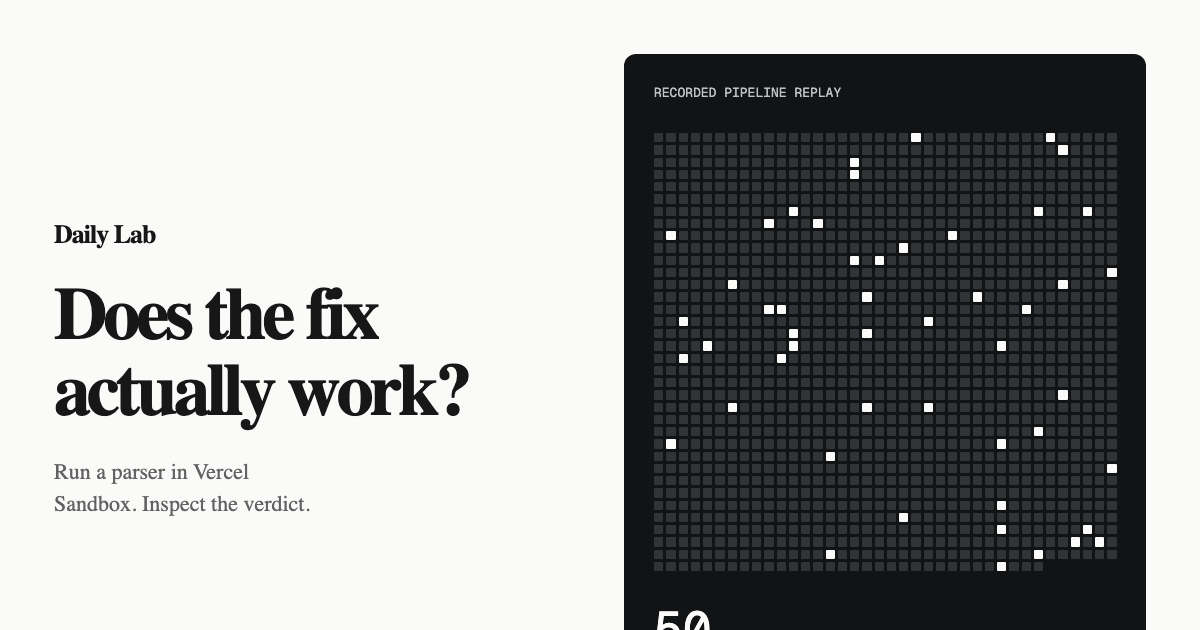
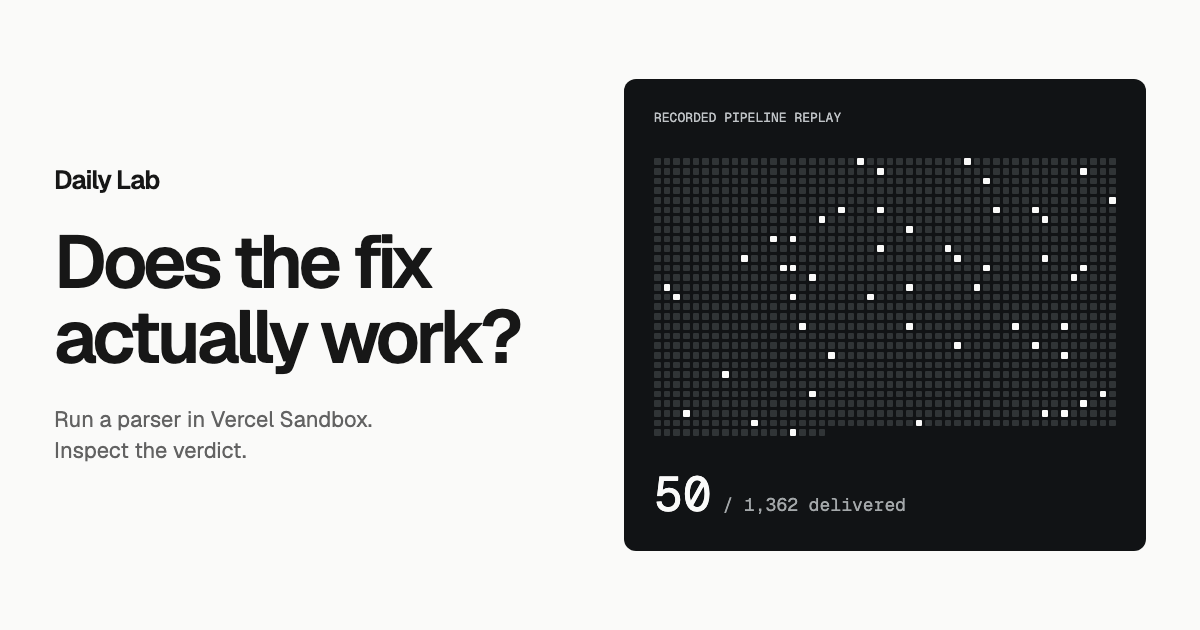
fix: polish responsive layouts and interruptible playback

Changed region(s): [[0.4933, 0.0603, 0.9558, 1.0], [0.0308, 0.3619, 0.4317, 0.8143], [0.0308, 0.2714, 0.1542, 0.3016]]

diff --git a/web/app/evidence/page.tsx b/web/app/evidence/page.tsx
@@ -28,9 +28,9 @@ import { personaLabel, personaName } from '@/lib/personas'
 import { explorerHref, readState, type RawSearchParams } from '@/lib/url-state'
 
 export const metadata: Metadata = {
-  title: 'Evaluation evidence',
+  title: 'Evidence · Daily Lab',
   description:
-    'Interactive results from Daily’s offline evaluation harness: per-fixture metrics, the candidate funnel drawn at 1:1 with the corpus, and the recorded trace for individual stories.',
+    'Interactive results from the Daily Lab evaluation harness: per-fixture metrics, the candidate funnel drawn at 1:1 with the corpus, and the recorded trace for individual stories.',
 }
 
 export default async function EvidencePage({
@@ -79,6 +79,17 @@ export default async function EvidencePage({
     else comparisonFailed = load.error.issues.join('; ')
   }
 
+  // Count each snapshot's label set once, even when multiple pipelines used it.
+  const snapshots = index.manifest?.snapshots ?? []
+  const labelSets = await Promise.all(snapshots.map(async (snapshot) => {
+    const entry = index.entries.find(e => e.snapshot === snapshot.name && !e.is_baseline)
+    if (!entry) return null
+    const loaded = await loadArtifact(entry)
+    return loaded.ok ? loaded.artifact.provenance.labels : null
+  }))
+  const labelRows = labelSets.length > 0 && labelSets.every(labels => labels !== null)
+    ? labelSets.reduce((total, labels) => total + (labels?.rows ?? 0), 0) : null
+
   const state = { ...requested, run: primaryEntry.run_id, compare: comparisonEntry?.run_id }
 
   const compatibility = comparison === null ? null : assessCompatibility(primary, comparison)
@@ -99,7 +110,7 @@ export default async function EvidencePage({
         </p>
         <h1 className="display m-0 text-[clamp(2.25rem,6vw,4.5rem)]">Evaluation evidence</h1>
         <p className="lede measure m-0 text-ink-60">
-          Ten adversarial fixtures, three frozen corpora, and a recorded trace for every article.
+          Ten adversarial fixtures, three frozen corpora, and recorded traces for inspected stories.
           Pick a run, then follow a story that should have reached a reader and did not.
         </p>
         {index.errors.length > 0 ? (
@@ -154,7 +165,7 @@ export default async function EvidencePage({
             {/* The metric table's intrinsic width exceeds a 375px viewport,
                 so it gets its own scroll port rather than pushing the page
                 sideways. */}
-            <div className="relative -mx-5 overflow-x-auto px-5 md:mx-0 md:px-0">
+            <div className="relative overflow-x-auto">
               <MetricTable
                 primary={primary}
                 comparison={comparison}
@@ -275,6 +286,18 @@ export default async function EvidencePage({
           )}
         </section>
       ) : null}
+
+      <section className="frame pb-12">
+        <details className="border-t border-rule pt-4 text-sm">
+          <summary className="disclosure min-h-11 cursor-pointer">Published scorecards and corpus inventory</summary>
+          <p className="max-w-2xl text-ink-60">{index.entries.length} published scorecards, including retained baselines. Snapshots overlap; their article counts are not unique articles across the collection. {labelRows === null ? 'Label totals are unavailable.' : `${labelRows.toLocaleString()} provisional model and agent label rows across these snapshots.`}</p>
+          <ul className="m-0 grid list-none gap-5 p-0 md:grid-cols-3">{index.manifest?.snapshots.map(snapshot => <li key={snapshot.name} className="min-w-0 border border-rule p-4">
+            <p className="m-0 font-medium">{snapshot.name}</p>
+            <p className="mt-2 text-ink-60">{snapshot.n_articles?.toLocaleString() ?? 'Unknown'} corpus articles</p>
+            <p className="break-all font-mono text-xs text-ink-40">SHA-256 {snapshot.sha256}</p>
+          </li>)}</ul>
+        </details>
+      </section>
 
       <section className="frame flex flex-col gap-4 pb-8">
         <Band index="" title="Provenance" note="What can and cannot be established" as="h2" />

diff --git a/web/app/lab-home.css b/web/app/lab-home.css
@@ -5,7 +5,7 @@
 .hero-copy { padding-bottom: 22px; }
 .hero-copy .eyebrow { display: flex; align-items: center; gap: 9px; }
 .hero-copy .eyebrow::before { content: ''; width: 6px; height: 6px; background: currentColor; }
-.lab-headline { font-size: clamp(52px, 5.65vw, 82px); line-height: 1.015; font-weight: 550; letter-spacing: -.066em; margin: 25px 0 26px; text-wrap: balance; }
+.lab-headline { font-size: clamp(48px, 5.15vw, 74px); line-height: 1.015; font-weight: 550; letter-spacing: -.066em; margin: 25px 0 26px; text-wrap: balance; }
 .lab-headline span { display: block; }
 .hero-description { color: var(--d-ink-58); font-size: 16px; line-height: 1.7; max-width: 34ch; margin: 0; }
 .hero-actions { display: flex; flex-wrap: wrap; gap: 12px; margin-top: 30px; align-items: center; }
@@ -23,12 +23,14 @@
 .instrument-number { font-family: var(--font-mono); font-size: clamp(45px, 4.2vw, 62px); line-height: 1; letter-spacing: -.08em; font-weight: 400; }
 .instrument-total { color: var(--d-zone-dim); font-family: var(--font-mono); font-size: 12px; }
 .instrument-readout p { margin: 10px 0 0; color: var(--d-zone-mid); font-size: 11px; }
-.fixture-control { display: flex; flex-direction: column; gap: 3px; color: var(--d-zone-dim); font-size: 10px; }
-.fixture-control select { min-width: 82px; min-height: 44px; padding: 9px 26px 9px 10px; border: 1px solid #737a7f; border-radius: 6px; color: var(--d-zone-ink); background: var(--d-zone-plate); font-size: 12px; cursor: pointer; }
+.fixture-control { position: relative; display: flex; flex-direction: column; gap: 3px; color: var(--d-zone-dim); font-size: 10px; }
+.fixture-control::after { content: "⌄"; position: absolute; right: 10px; bottom: 13px; pointer-events: none; font-size: 14px; }
+.fixture-control select { appearance: none; -webkit-appearance: none; height: 44px; min-width: 82px; min-height: 44px; padding: 9px 26px 9px 10px; border: 1px solid #737a7f; border-radius: 6px; color: var(--d-zone-ink); background: var(--d-zone-plate); font-size: 12px; cursor: pointer; }
 .instrument-field { display: grid; grid-template-columns: repeat(62, minmax(0, 1fr)); gap: 3px; padding-block: 3px; contain: layout paint; }
 .instrument-field .sieve-cell { display: block; aspect-ratio: 1; border-radius: .6px; transition: background-color 230ms ease-out, opacity 230ms ease-out; background: #d2d5d7; }
 .instrument-field .sieve-cell[data-state='alive'] { background: #d2d5d7; }
-.instrument-field .sieve-cell[data-state='dying'] { background: var(--d-zone-signal); }
+.instrument-field .sieve-cell[data-state='dying'] { background: var(--d-zone-signal); animation: instrument-loss 650ms ease-out forwards; }
+@keyframes instrument-loss { 0%, 35% { background: var(--d-zone-signal); } 100% { background: #303436; } }
 .instrument-field .sieve-cell[data-state='gone'] { background: #303436; }
 .instrument-field .sieve-cell[data-state='delivered'] { background: #f5f5f3; }
 .instrument-stage { display: flex; justify-content: space-between; align-items: end; gap: 16px; padding-top: 26px; min-height: 87px; }
@@ -136,7 +138,8 @@
   .invitation-inner { padding: 22px 18px; }
 }
 @media (prefers-reduced-motion: reduce) {
-  .instrument-field .sieve-cell { transition: none; }
+  .instrument-field .sieve-cell { transition: none; animation: none; }
+  .instrument-field .sieve-cell[data-state='dying'] { background: #303436; animation: none; }
   .playback-button { transition: none; }
 }
 .recorded-case-field span:not([data-status='correct']):not([data-status='not-applicable']) { background: var(--d-signal); }

diff --git a/web/tests/e2e/home.spec.ts b/web/tests/e2e/home.spec.ts
@@ -62,7 +62,7 @@ test.describe('recorded hero instrument', () => {
       && url.searchParams.get('run') === NARRATIVE_RUN
       && url.searchParams.get('persona') === 'tom'
       && url.searchParams.get('view') === 'funnel')
-    await expect(page.getByLabel('Reader fixture')).toHaveValue('tom')
+    await expect(page.getByRole('combobox', { name: 'Reader fixture', exact: true })).toHaveValue('tom')
   })
 
   test('autoplay settles once, while pause and manual scrubbing take control', async ({ page }) => {
@@ -110,6 +110,29 @@ test.describe('recorded hero instrument', () => {
     await expect(hero).toHaveAttribute('data-playing', 'false')
     await expect(hero).toHaveAttribute('data-stage', stoppedAt as string)
   })
+  test('hiding the document stops playback without restarting when visible', async ({ page }) => {
+    await page.emulateMedia({ reducedMotion: 'no-preference' })
+    await page.goto('/')
+    const hero = page.getByTestId('hero-sieve')
+    await hero.scrollIntoViewIfNeeded()
+    await hero.getByRole('slider').press('Home')
+    await hero.getByRole('button', { name: 'Play', exact: true }).click()
+    await expect(hero).toHaveAttribute('data-playing', 'true')
+    await page.evaluate(() => {
+      Object.defineProperty(document, 'hidden', { configurable: true, get: () => true })
+      document.dispatchEvent(new Event('visibilitychange'))
+    })
+    await expect(hero).toHaveAttribute('data-playing', 'false')
+    const stopped = await hero.getAttribute('data-stage')
+    await page.evaluate(() => {
+      Object.defineProperty(document, 'hidden', { configurable: true, get: () => false })
+      document.dispatchEvent(new Event('visibilitychange'))
+    })
+    await page.waitForTimeout(1700)
+    await expect(hero).toHaveAttribute('data-stage', stopped!)
+    await expect(hero).toHaveAttribute('data-playing', 'false')
+  })
+
 })
 
 test.describe('homepage evidence', () => {

diff --git a/web/app/findings.css b/web/app/findings.css
@@ -81,7 +81,7 @@
 .guard-metric figcaption { display: flex; flex-wrap: wrap; gap: 0.5rem 1rem; align-items: baseline; justify-content: space-between; }
 .guard-metric-name { font-size: 0.9375rem; font-weight: 550; }
 .guard-metric-direction { font-size: 0.6875rem; color: var(--d-ink-38); }
-.guard-metric-value { display: flex; gap: 0.75rem; flex-wrap: wrap; align-items: baseline; margin: 1rem 0 1.25rem; }
+.guard-metric-value { min-height: 74px; display: flex; gap: 0.75rem; flex-wrap: wrap; align-items: baseline; margin: 1rem 0 1.25rem; }
 .guard-metric-value > span:first-child { font-family: var(--font-mono); font-size: clamp(2.6rem, 4.5vw, 4.4rem); letter-spacing: -0.085em; line-height: 1.15; font-variant-numeric: tabular-nums; }
 .guard-percent { font-size: 0.6em; margin-left: 0.12em; }
 .guard-delta { color: var(--d-signal); font-family: var(--font-mono); font-size: 0.8125rem; }
@@ -108,9 +108,9 @@
 
 @media (max-width: 760px) {
   .retrieval-options { grid-template-columns: repeat(2, minmax(0, 1fr)); }
-  .retrieval-detail, .guard-metrics, .guard-history { grid-template-columns: 1fr; }
+  .retrieval-detail, .guard-history { grid-template-columns: 1fr; }
   .retrieval-story { border-left: 0; border-top: 1px solid var(--d-rule); padding: 1.5rem 0 0; }
-  .guard-metrics { gap: 2rem; }
+  .guard-metrics { gap: 1rem; }
   .guard-history { gap: 1rem; }
 }
 

diff --git a/web/components/HeroSieve.tsx b/web/components/HeroSieve.tsx
@@ -141,7 +141,7 @@ export function HeroSieve({ fixtures, runId, snapshot }: {
           {playing ? 'Pause' : atEnd ? 'Replay' : 'Play'}
         </button>
         <div className="stage-slider">
-          <input aria-label="Pipeline stage" aria-valuetext={`${index + 1} of ${last + 1}: ${current.label}, ${current.survivors} remaining`} type="range" min={0} max={last} step={1} value={index} onPointerDown={pause} onChange={(event) => selectStage(Number(event.target.value))} />
+          <input onFocus={pause} onKeyDown={pause} aria-label="Pipeline stage" aria-valuetext={`${index + 1} of ${last + 1}: ${current.label}, ${current.survivors} remaining`} type="range" min={0} max={last} step={1} value={index} onPointerDown={pause} onChange={(event) => selectStage(Number(event.target.value))} />
           <div className="stage-ticks" aria-hidden="true">{data.stages.map((stage, step) => <i key={stage.stage} data-active={step <= index} />)}</div>
         </div>
       </div>

diff --git a/web/scripts/build-icons.ts b/web/scripts/build-icons.ts
@@ -44,10 +44,8 @@ function rng(seed: number): () => number {
 }
 
 function ogHtml(): string {
-  const fontPath = join(WEB, 'app/fonts/GeistSans-latin.woff2')
+  const fontPath = join(WEB, 'app/fonts/GeistSans-variable.woff2')
   const monoPath = join(WEB, 'app/fonts/GeistMono-latin.woff2')
-  const cols = 62
-  const rows = 22
   const total = POOL
 
   // Which cells survived. Spread rather than clustered: the real figure is a
@@ -72,7 +70,7 @@ function ogHtml(): string {
   p{font:400 22px/1.45 F;color:#626262;max-width:25ch}
   .instrument{background:#111315;border-radius:12px;padding:30px;color:#fafaf9}
   .label{font:400 13px M;color:#bfc3c6}
-  .plate{display:grid;grid-template-columns:repeat(38,1fr);gap:3px;margin:32px 0}
+  .plate{display:grid;grid-template-columns:repeat(48,1fr);gap:3px;margin:32px 0}
   .plate i{aspect-ratio:1;background:#303436;border-radius:1px}
   .plate i.on{background:#fafaf9}
   .n{font:400 18px M;color:#a4a8aa}

diff --git a/web/app/globals.css b/web/app/globals.css
@@ -1365,3 +1365,14 @@ details[open] > .disclosure::before {
   *, *::before, *::after { scroll-behavior: auto !important; }
   .button-primary, .button-secondary { transition: none; }
 }
+
+/* Native disclosures share the same target size and hierarchy as controls. */
+.reveal { border-top: 1px solid var(--d-rule); }
+.reveal-summary { display: flex; align-items: center; gap: 12px; min-height: 48px; cursor: pointer; list-style: none; }
+.reveal-summary::-webkit-details-marker { display: none; }
+.reveal-count { color: var(--d-ink-38); font-family: var(--font-mono); font-size: 11px; }
+.reveal-mark { margin-left: auto; color: var(--d-ink-38); }
+.reveal-mark::after { content: '+'; }
+.reveal[open] .reveal-mark::after { content: '−'; }
+.reveal-list { margin: 0; padding: 0 0 20px 20px; color: var(--d-ink-58); font-size: 13px; line-height: 1.7; }
+.reveal-list li + li { margin-top: 8px; }

diff --git a/web/components/StoryTable.tsx b/web/components/StoryTable.tsx
@@ -65,7 +65,7 @@ export function StoryTable({ persona, state }: StoryTableProps) {
   }
 
   return (
-    <table className="w-full border-collapse text-xs">
+    <div className="overflow-x-auto"><table className="w-full border-collapse text-xs">
       <caption className="sr-only">
         Stories for reader fixture {personaName(persona.key)}, filtered to {state.outcome}. Select a row to see
         its recorded trace.
@@ -136,7 +136,7 @@ export function StoryTable({ persona, state }: StoryTableProps) {
           )
         })}
       </tbody>
-    </table>
+    </table></div>
   )
 }
 

diff --git a/web/components/FunnelView.tsx b/web/components/FunnelView.tsx
@@ -51,7 +51,7 @@ export function FunnelView({ artifact, persona }: FunnelViewProps) {
           containing block is the viewport rather than this scroll port, so it
           escapes the clip and widens the whole document at 375px.
         */}
-        <div className="relative -mx-5 overflow-x-auto px-5 md:mx-0 md:px-0">
+        <div className="relative overflow-x-auto">
         <table className="w-full min-w-md border-collapse text-xs">
           <caption className="sr-only">
             Candidate funnel: survivors, articles lost entering each stage, and pass rate

diff --git a/web/app/lab/[run]/page.tsx b/web/app/lab/[run]/page.tsx
@@ -207,7 +207,7 @@ cd ../web && npm run export:lab -- --check`}
           <Figure term="Wrong" value={String(wrong.length)} note="see the table" signal={wrong.length > 0} />
         </dl>
         {wrong.length > 0 ? (
-          <div className="relative -mx-5 overflow-x-auto px-5 md:mx-0 md:px-0">
+          <div className="relative overflow-x-auto">
             <table className="w-full min-w-md border-collapse text-xs">
               <caption className="sr-only">Every case this candidate got wrong</caption>
               <thead>

diff --git a/web/components/LabGradings.tsx b/web/components/LabGradings.tsx
@@ -95,7 +95,7 @@ function Moved({ gradings }: { gradings: readonly Grading[] }) {
 
 function CriteriaRows({ grading }: { grading: Grading }) {
   return (
-    <div className="relative -mx-5 overflow-x-auto px-5 md:mx-0 md:px-0">
+    <div className="relative overflow-x-auto">
       <table className="w-full min-w-md border-collapse text-xs">
         <caption className="sr-only">
           Acceptance criteria under generation {grading.spec_version}, how many cases each applied

diff --git a/web/components/LabLiveResult.tsx b/web/components/LabLiveResult.tsx
@@ -284,7 +284,7 @@ function Recorded({ grading }: { grading: LiveGrading }) {
 
 function Criteria({ grading }: { grading: LiveGrading }) {
   return (
-    <section className="relative -mx-5 overflow-x-auto px-5 md:mx-0 md:px-0">
+    <section className="relative overflow-x-auto">
       <table className="w-full min-w-md border-collapse text-xs">
         <caption className="label pb-2 text-left text-ink-40">
           The {grading.criteria.length} acceptance criteria
